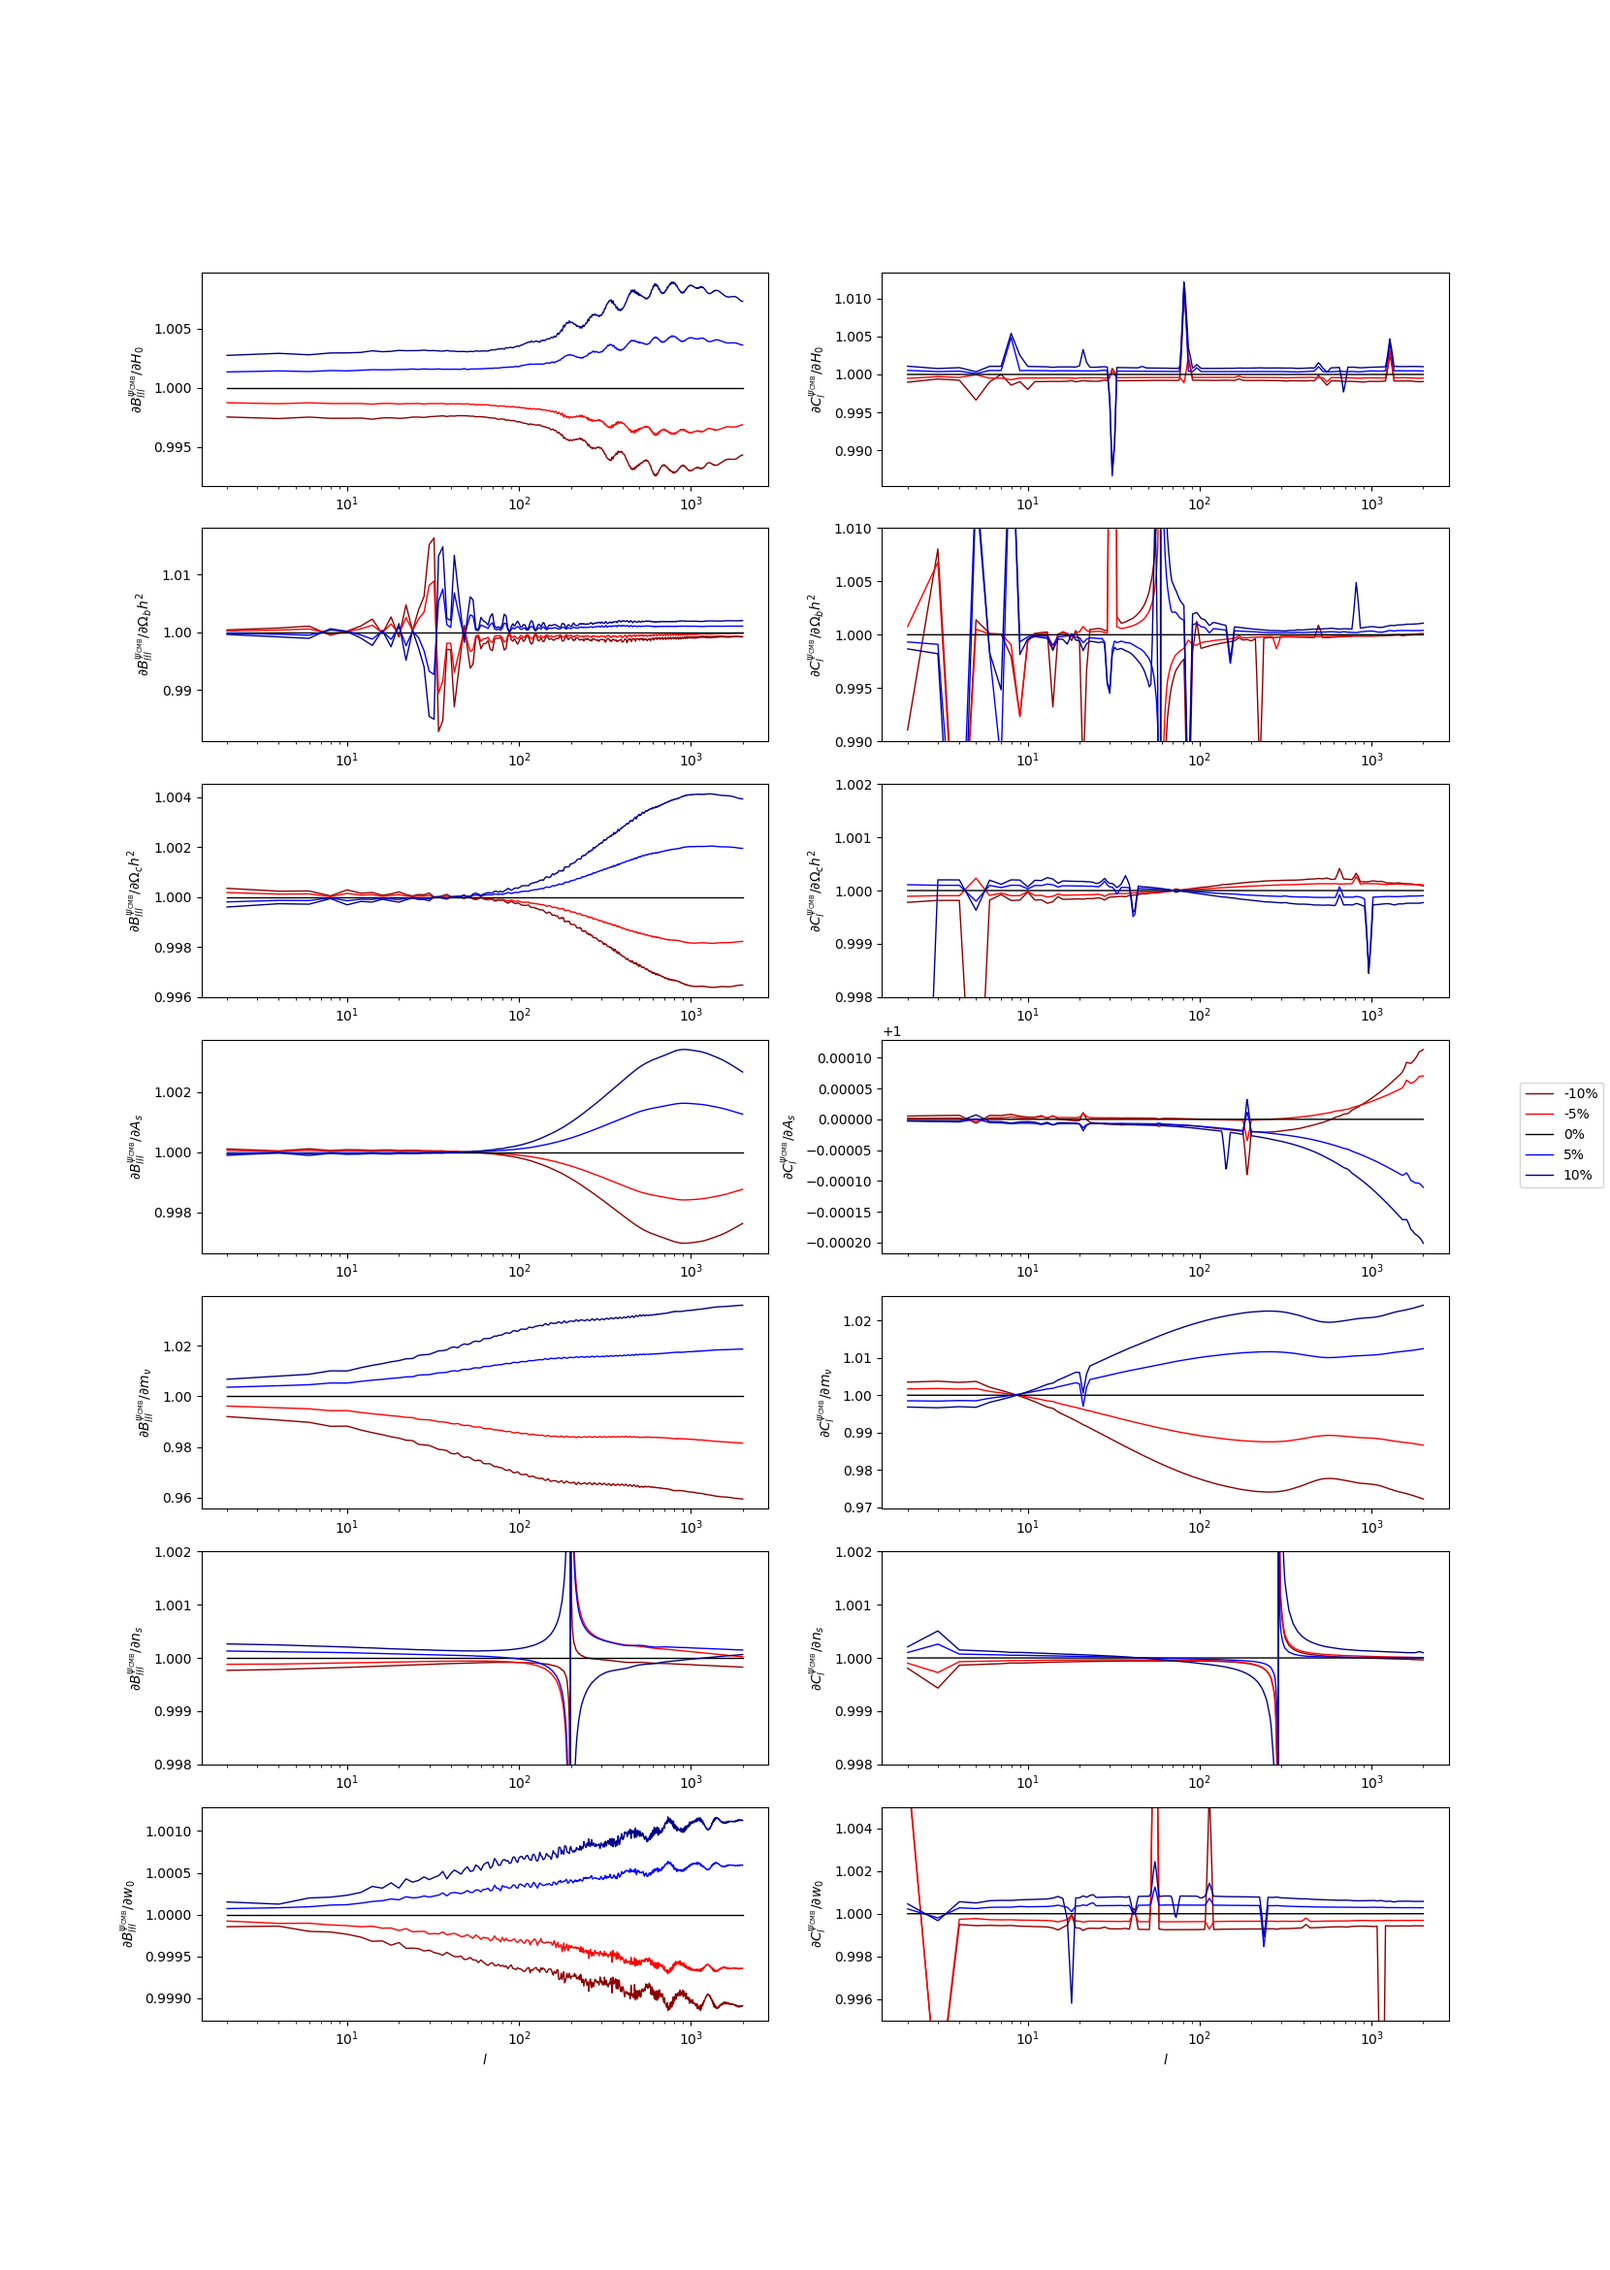
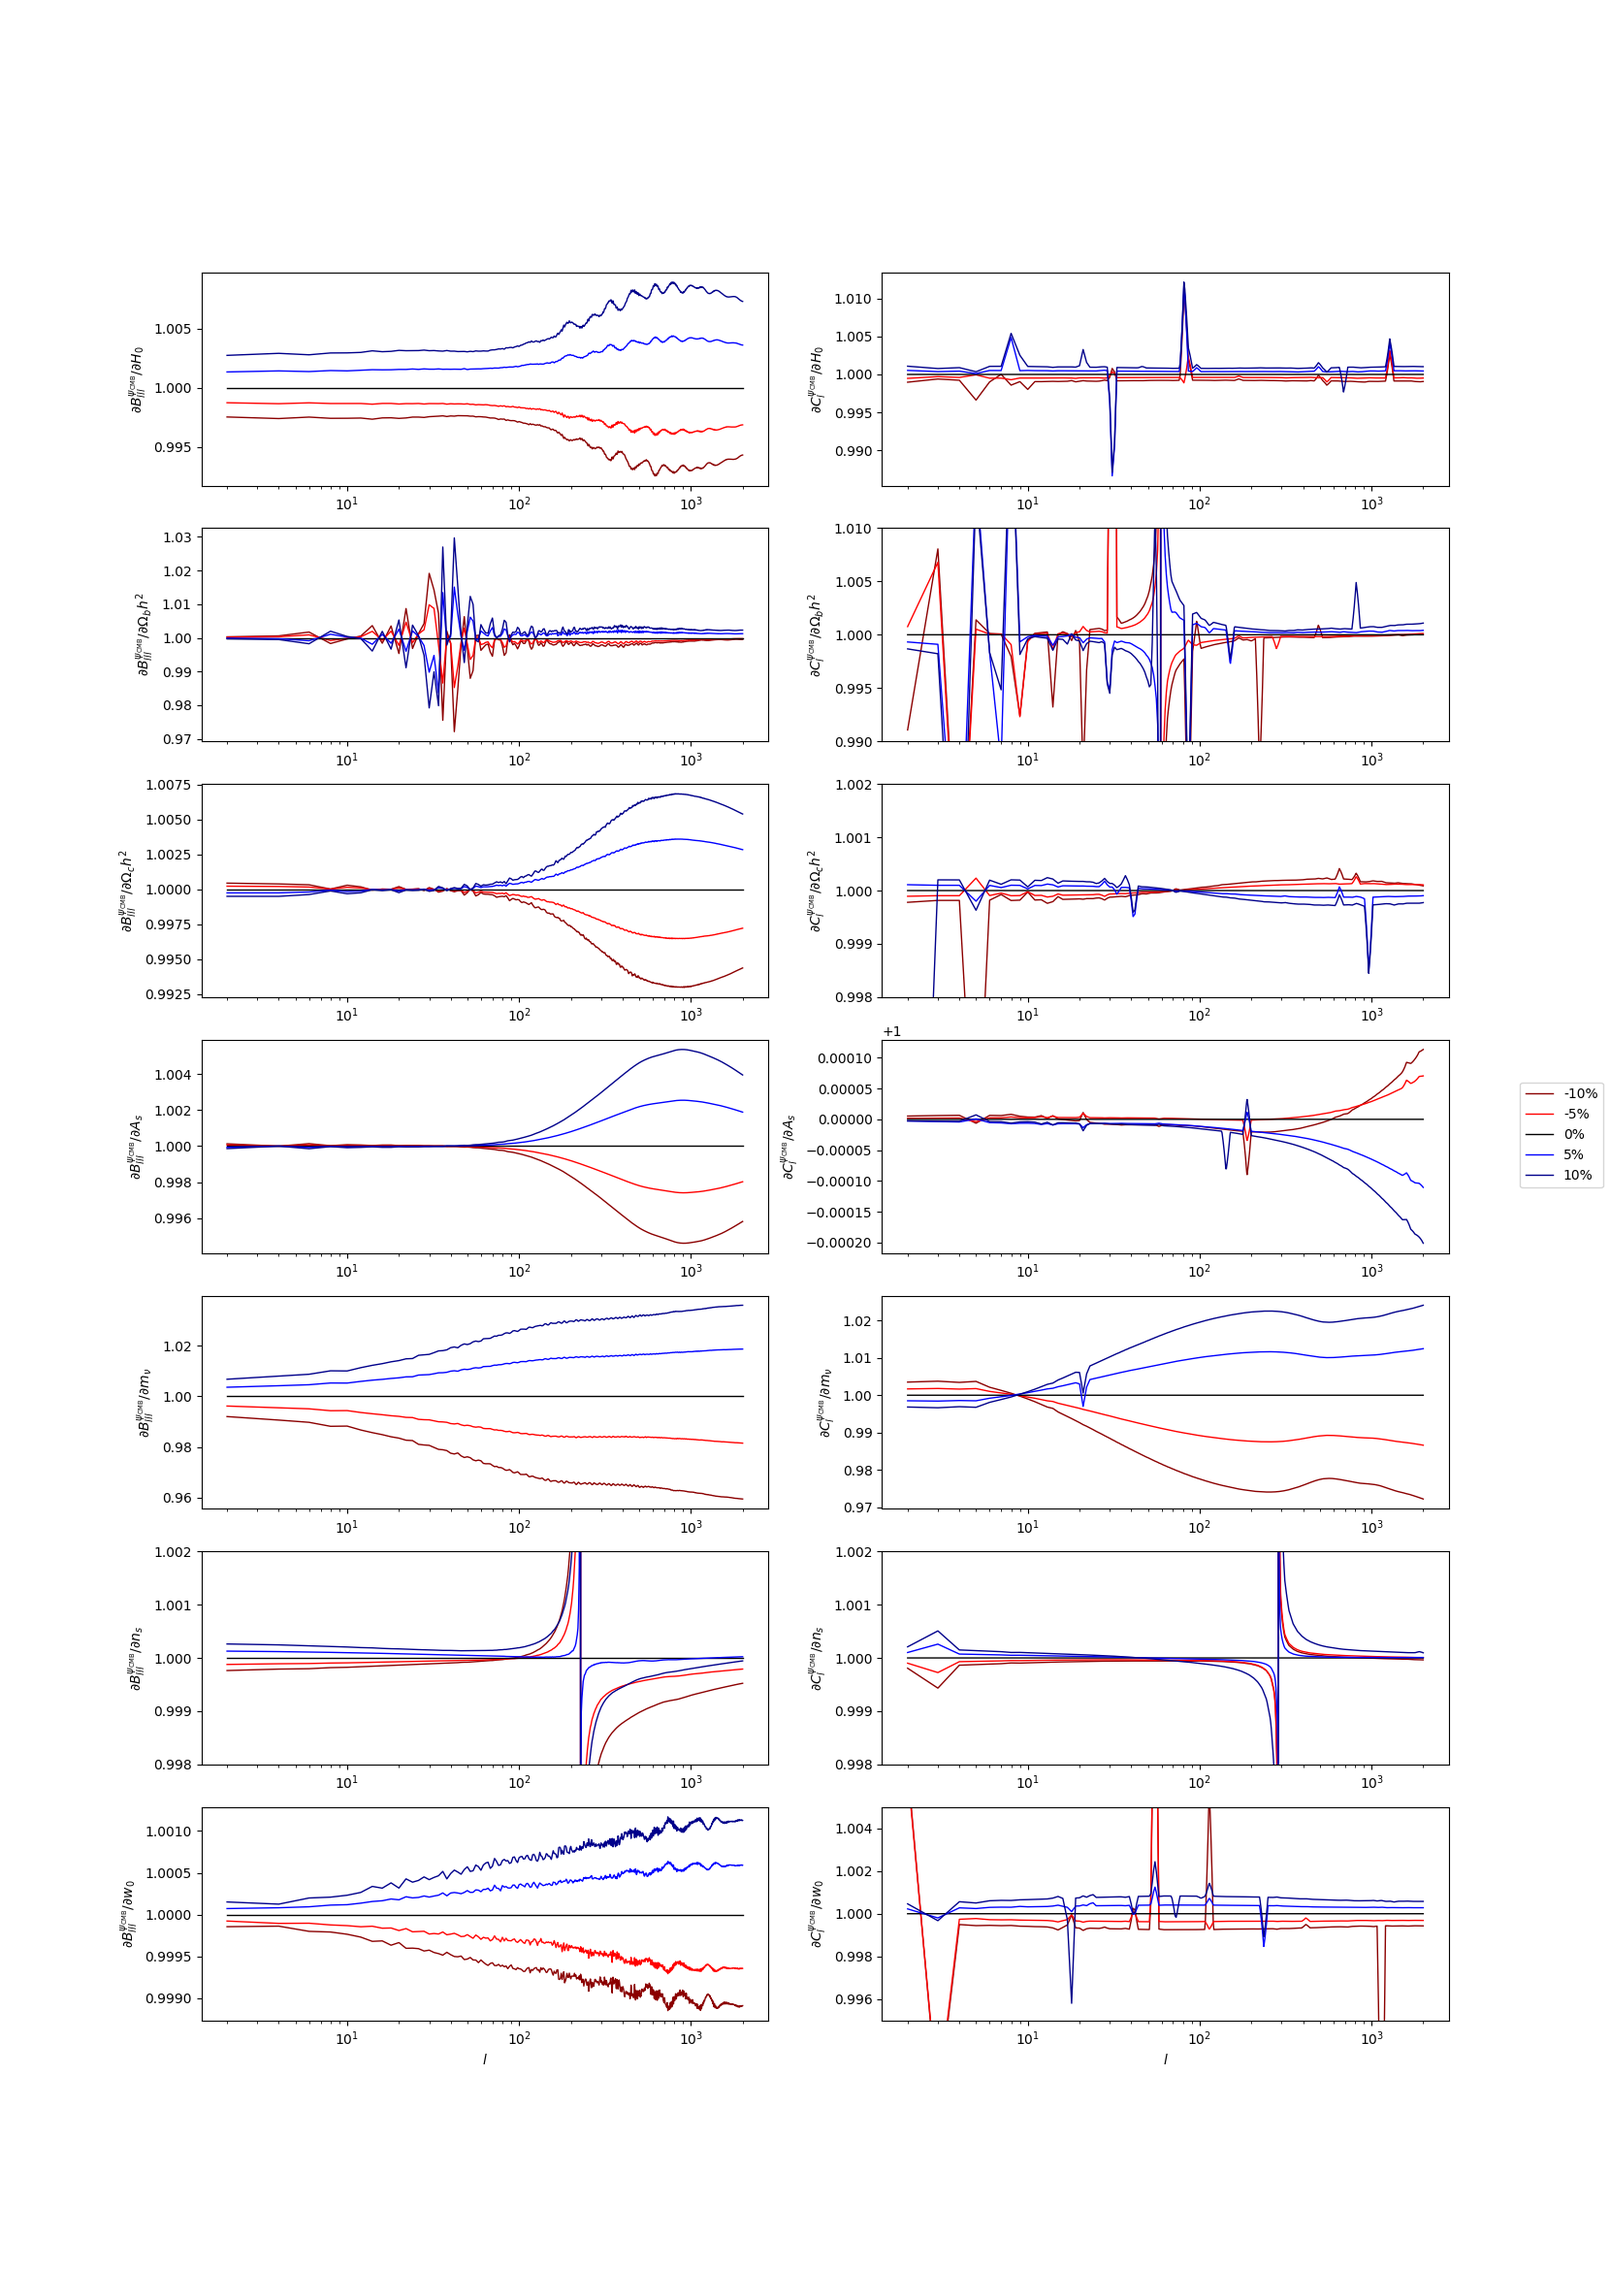
new fishes

diff --git a/code/Fisher_matrix_approx.py b/code/Fisher_matrix_approx.py
@@ -5,7 +5,7 @@ from itertools import *
 
 lmin = 2
 lmax = 2000
-stepsizes = [1 * 8, 5 * 8, 10 * 8]
+stepsizes = [1 * 8 * 2, 5 * 8 * 2, 10 * 8 * 2]
 num_bispec_samples = 100
 num_cores = 32
 
@@ -36,27 +36,5 @@ for tracer in ['c', 's', 'both']:
             print(f'{tracer}:', counter, '/', num_pars * (num_pars + 1) / 2)
             counter += 1
     
-    np.savetxt(f'fisher_matrices/fish_mat_bisp_approx_{tracer}_5p.txt', mat)
+    np.savetxt(f'fisher_matrices/fish_mat_bisp_approx_{tracer}.txt', mat)
     print(mat)
-
-
-# for python implementation
-# if __name__ == "__main__":
-#     num_cores = multiprocessing.cpu_count()
-    
-#     mat = np.zeros((len(pars), len(pars)))
-    
-#     # Generate index pairs for the lower triangular part of the matrix (excluding diagonal)
-#     index_pairs = [(i, j) for i in range(len(pars)) for j in range(i + 1)]
-    
-#     with multiprocessing.Pool(processes=num_cores) as pool:
-#         results = pool.map(fisher_calc_wrapper, index_pairs)
-    
-#     # Fill the matrix with computed values
-#     for i, j, result in results:
-#         mat[i, j] = result
-#         mat[j, i] = result  # Symmetric assignment
-
-#     print(mat)
-    
-#     print("Fisher matrix computed successfully!")
